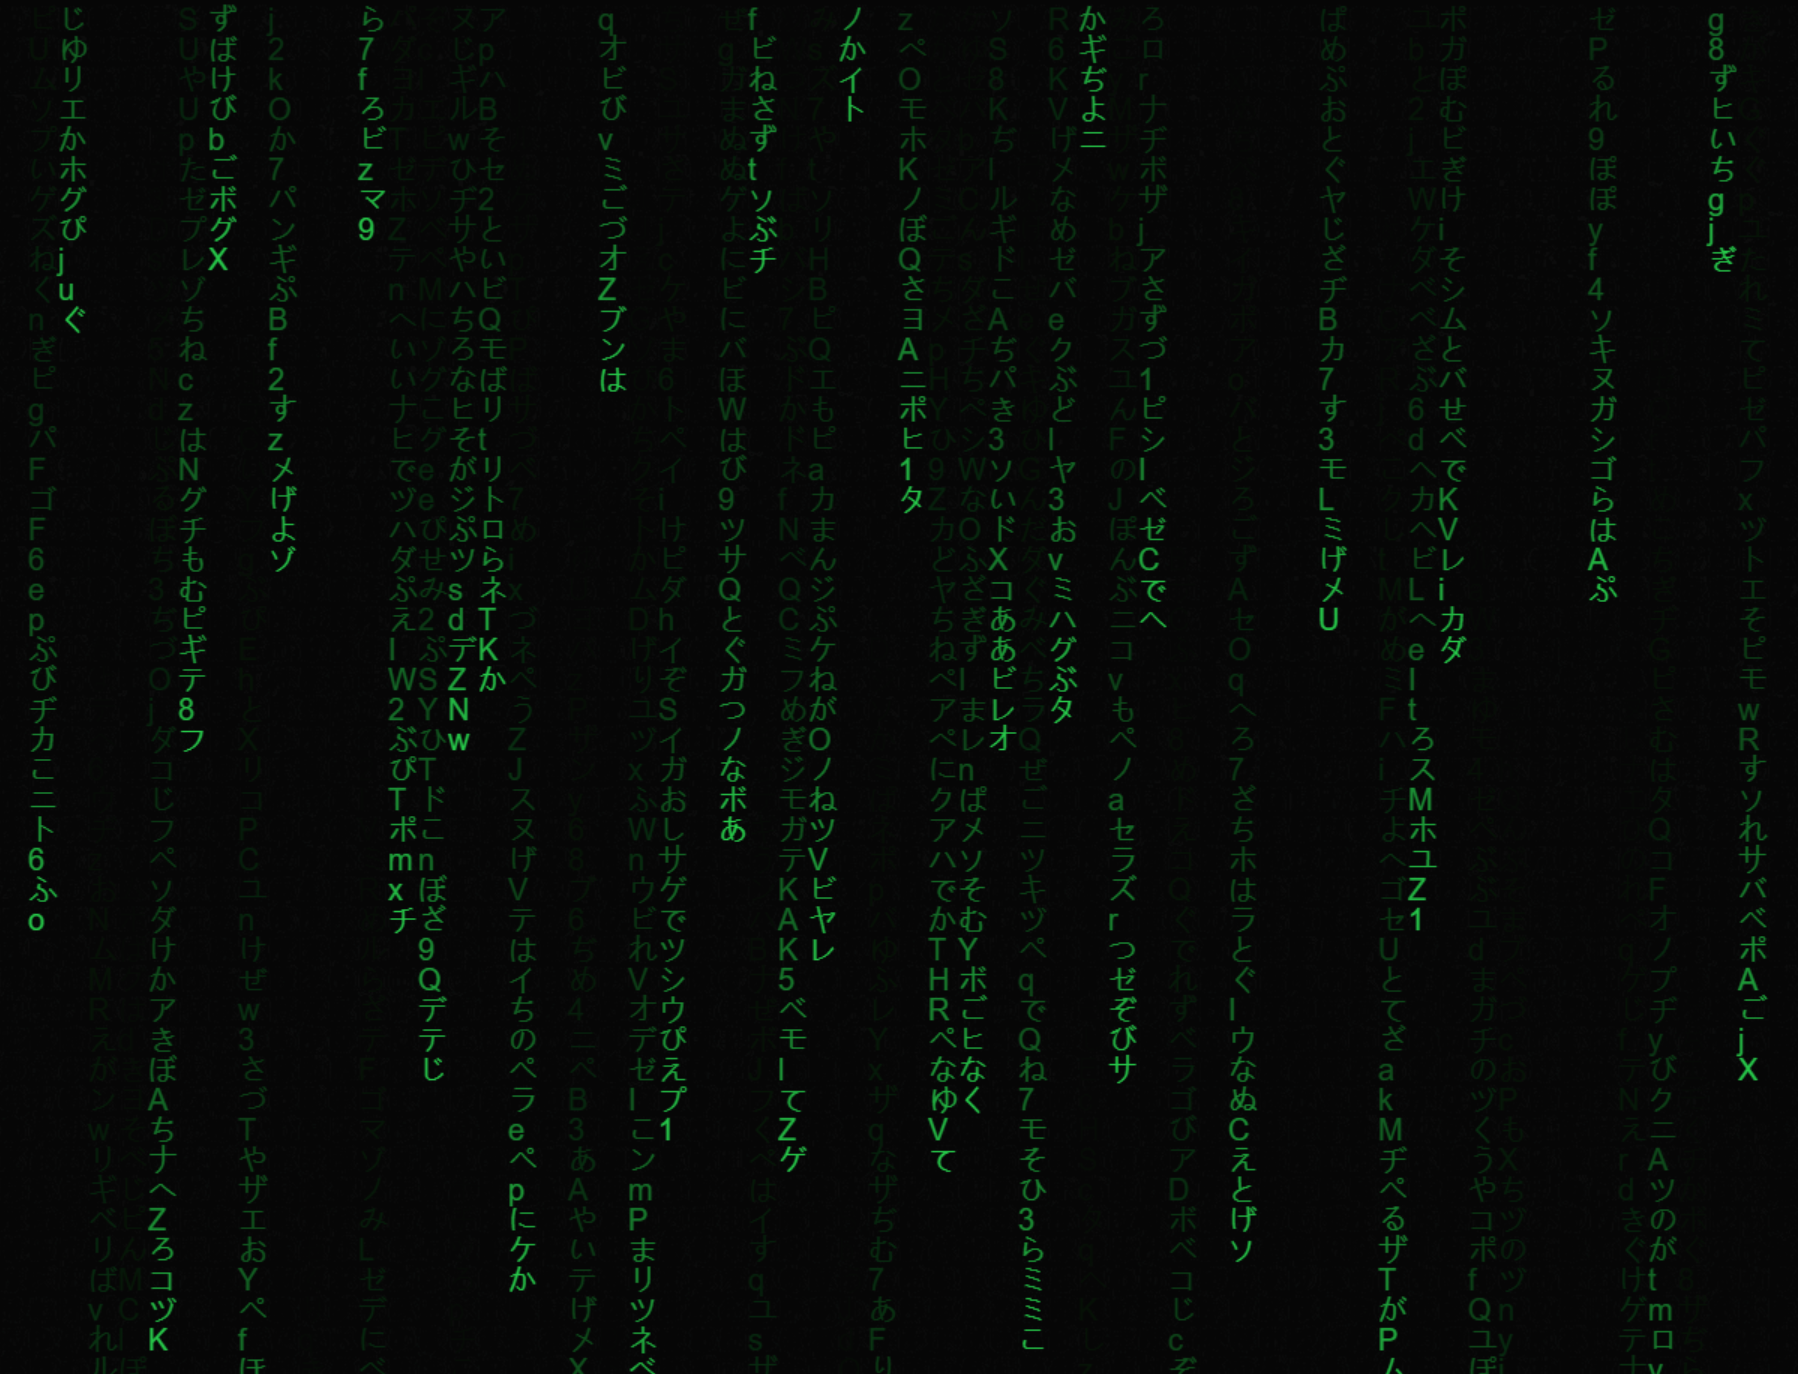
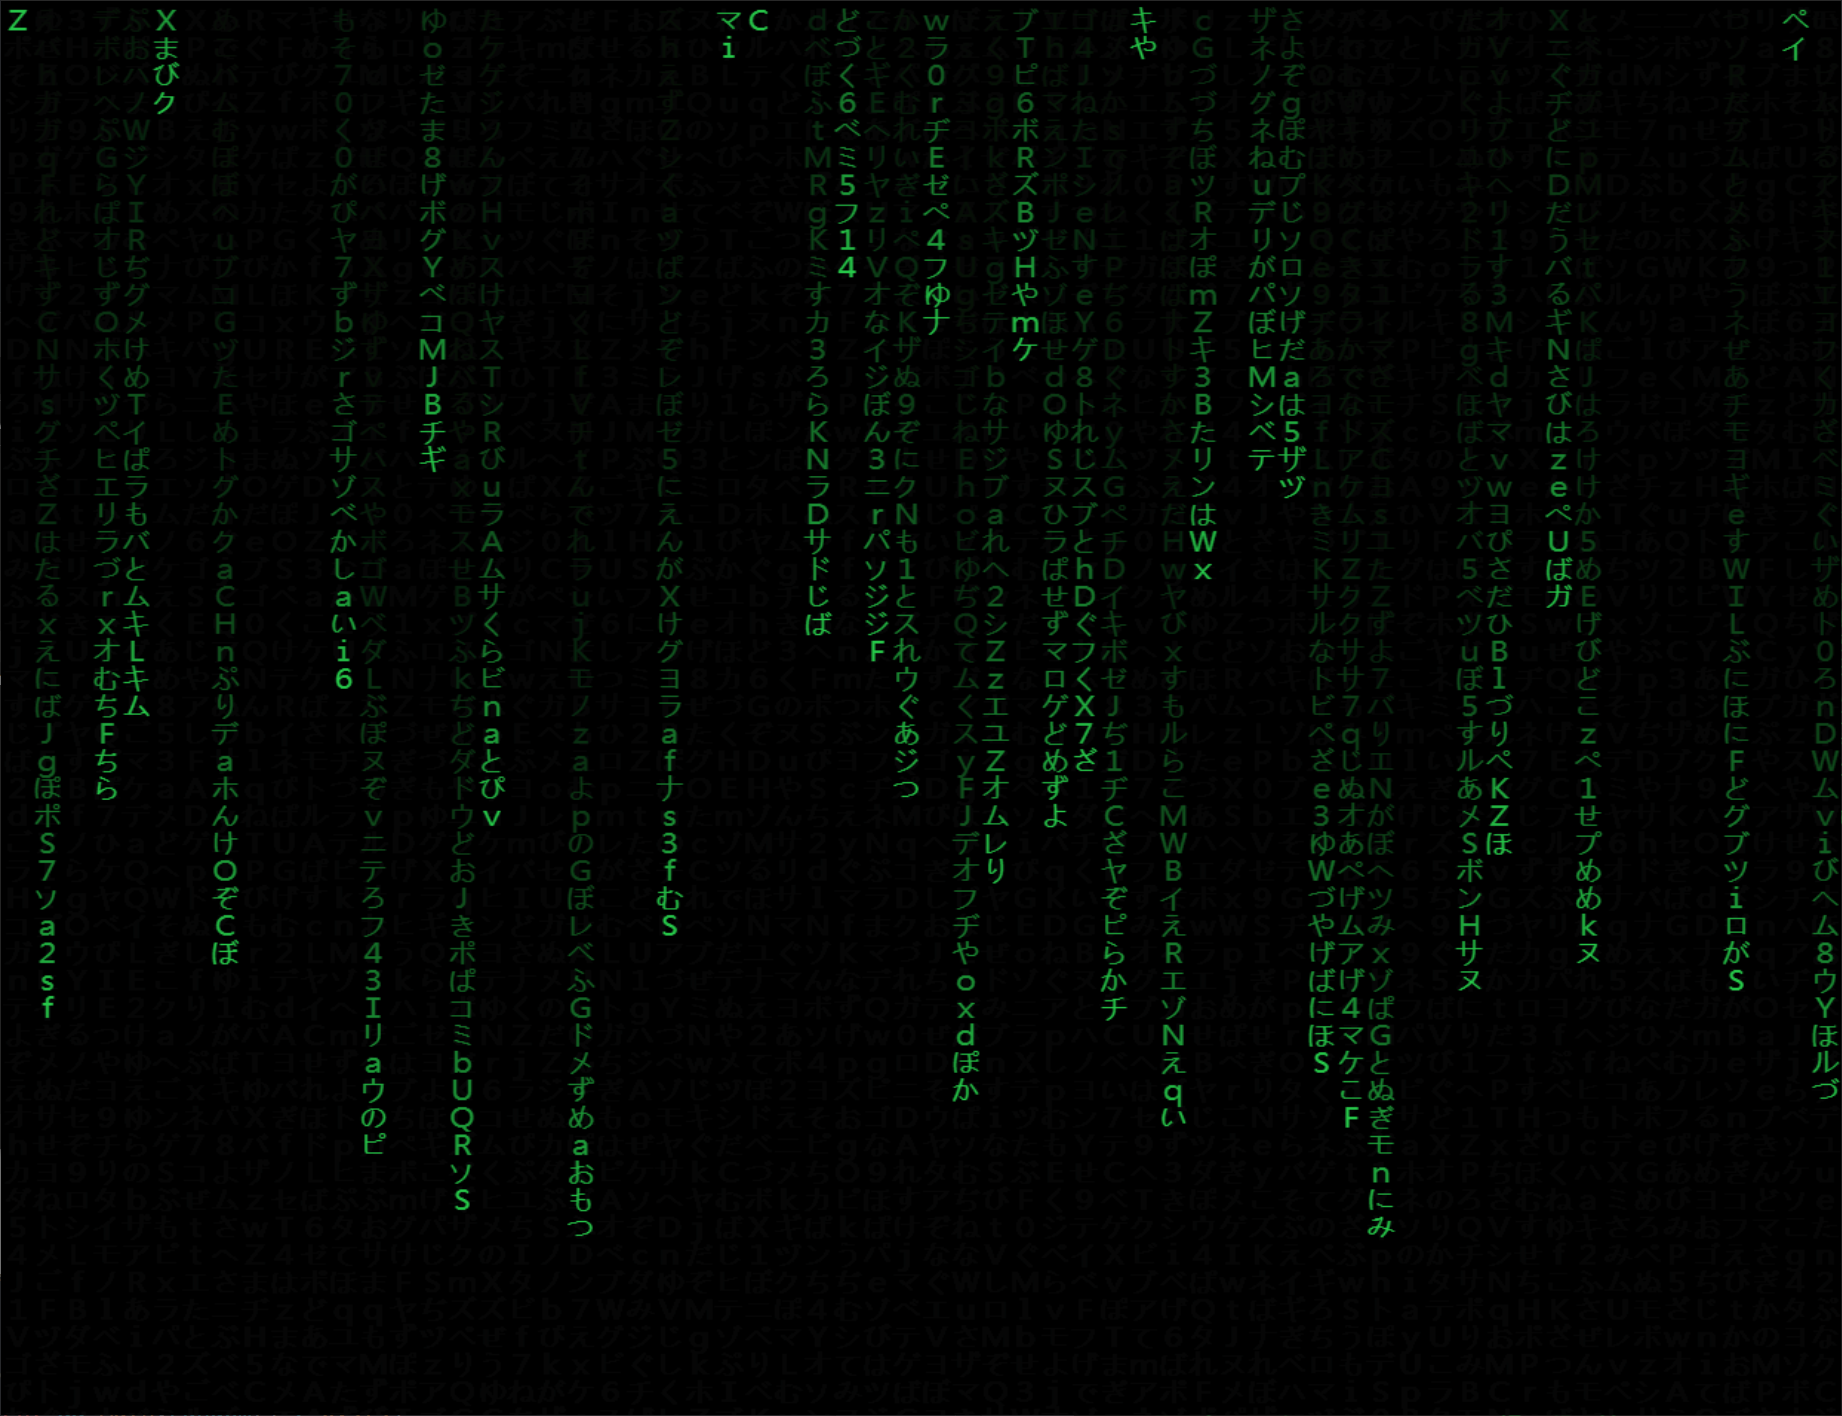
use fullwidth alphanumeric chars instead of halfwidth ones

diff --git a/js/matrix.js b/js/matrix.js
@@ -9,7 +9,7 @@ function draw_matrix() {
     c.width = window.outerWidth;
 
     // charset to use
-    var matrix_charset = "abcdefghijklmnopqrstuvwxyzABCDEFGHIJKLMNOPQRSTUVWXYZ123456789あいうえおかきくけこさしすせそたちつてとはひふへほなにぬねのまみむめもらりるれろやゆよんがぎぐげござじずぜぞだぢづでどばびぶべぼぱぴぷぺぽアイウエオカキクケコサシスセソタチツテトハヒフヘホナニヌネノマミムメモラリルレロヤユヨンガギグゲゴザジズゼゾダヂヅデドバビブベボパピプペポ";
+    var matrix_charset = "ａｂｃｄｅｆｇｈｉｊｋｌｍｎｏｐｑｒｓｔｕｖｗｘｙｚＡＢＣＤＥＦＧＨＩＪＫＬＭＮＯＰＱＲＳＴＵＶＷＸＹＺ０１２３４５６７８９あいうえおかきくけこさしすせそたちつてとはひふへほなにぬねのまみむめもらりるれろやゆよんがぎぐげござじずぜぞだぢづでどばびぶべぼぱぴぷぺぽアイウエオカキクケコサシスセソタチツテトハヒフヘホナニヌネノマミムメモラリルレロヤユヨンガギグゲゴザジズゼゾダヂヅデドバビブベボパピプペポ";
     // convert the string into an array of single characters
     var matrix = matrix_charset.split("");
 
